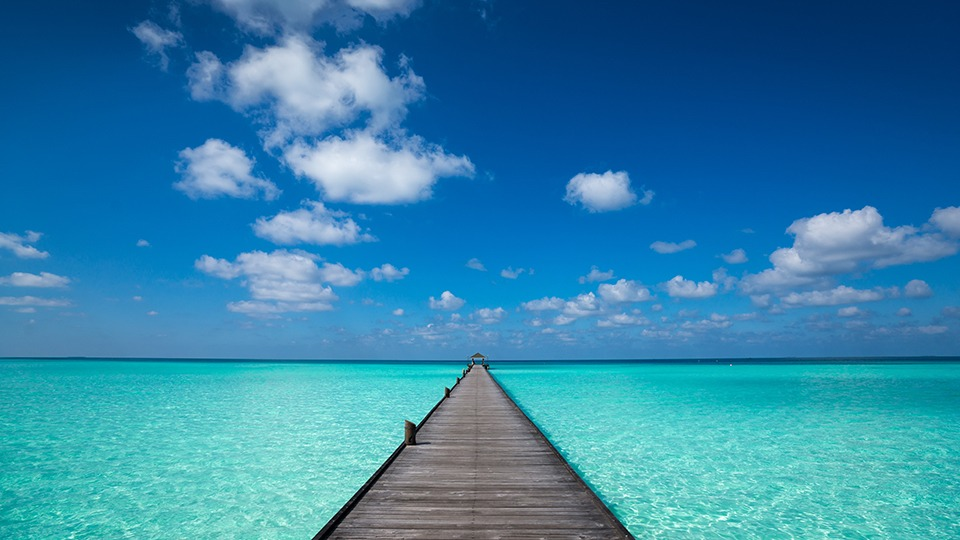
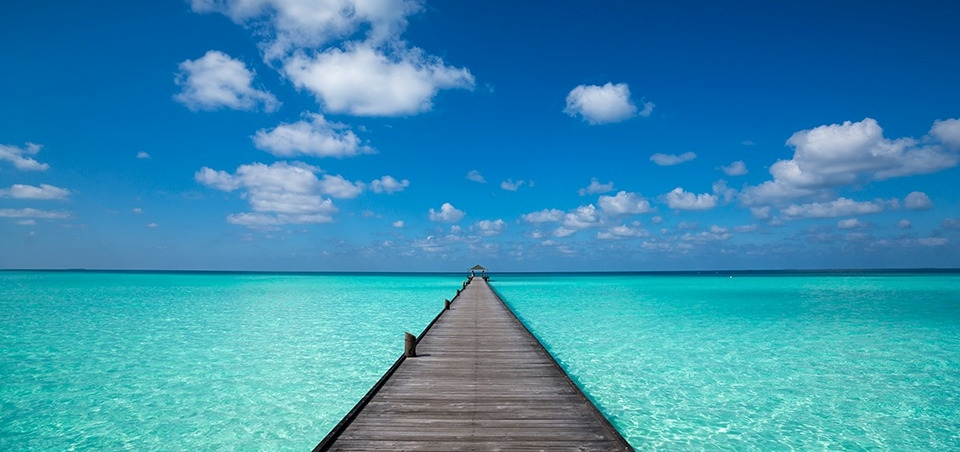
styling updates

diff --git a/static/tripal_styling.css b/static/tripal_styling.css
@@ -8,7 +8,6 @@ body{
 	font-family: fonttry;
 }
 
-
 .nav {
     grid-area: Nav;
     display: right; 
@@ -16,6 +15,7 @@ body{
     justify-content: space-around; 
     width: 100%;
 }
+
 
 .nav-list {
     list-style-type: none;
@@ -65,6 +65,7 @@ footer{
     margin-left: 75%;
     border-color: aliceblue;
     color: rgb(1, 1, 112);
+	cursor: pointer;
 }
 
 .start_your_journey :hover{
@@ -91,16 +92,15 @@ footer{
 
 #signUpBody {
     background: url("../static/homePagepic.jpg") no-repeat ;
-    background-size: 100% 500px;
+    background-size: 100% 100%;
     background-position-y: 75px;
-    backdrop-filter: blur(10px);
+	backdrop-filter: blur(5px);
 	display: flex;
 	justify-content: center;
 	align-items: center;
 	flex-direction: column;
     font-family: fonttry;
-	height: 100vh;
-	margin: 0 0 50px;
+	padding-bottom: 100px;
 }
 
 h1 {
@@ -187,8 +187,10 @@ button.ghost {
 	width: 768px;
 	max-width: 100%;
 	min-height: 480px;
-    padding: 10%;
+    padding: 15%;
+	margin-top: 7%;
 }
+
 
 .form-container {
 	position: absolute;
@@ -201,6 +203,9 @@ button.ghost {
 	left: 0;
 	width: 50%;
 	z-index: 2;
+	text-align: center;
+	padding: 10%;
+	padding-top: 20%;
 }
 
 .container.right-panel-active .sign-in-container {
@@ -343,7 +348,35 @@ button.ghost {
 	padding-top: 0%;
 }
 
+.Header_aboutUs {
+	color:rgb(100, 90, 90); font-size: 40px;
+	text-align:center;
+	padding-top: 5%;
+	
+}
 
+.GeneralText{
+	color:rgb(100, 90, 90); font-size: 23px;
+	text-align:center; 
+	padding: 10%;
+	padding-top: 3%;
+
+}
+
+#AboutUS_body {
+	background: url(../static/background_aboutUs.jpeg) no-repeat;
+	background-size: 100% 100%;
+	background-position-y: 70px;
+
+}
+
+#about_container{
+	background-color: rgba(255, 255, 255, 0.5);
+	box-shadow: 0 4px 8px 0 rgba(0, 0, 0, 0.2), 0 6px 20px 0 rgba(0, 0, 0, 0.19);
+	border-radius: 5%;
+	margin: 15%;
+	margin-top: 5%;
+}
 
 
 

diff --git a/templates/TripalAboutUs.html b/templates/TripalAboutUs.html
@@ -1,0 +1,37 @@
+<!DOCTYPE html>
+<html lang="en">
+<head>
+    <meta charset="UTF-8">
+    <meta http-equiv="X-UA-Compatible" content="IE=edge">
+    <meta name="viewport" content="width=device-width, initial-scale=1.0">
+    <link rel="stylesheet" href="../static/tripal_styling.css">
+    <title>TriPal - About Us</title>
+</head>
+<body id="AboutUS_body">
+    <nav class="nav">
+        <ul class="nav-list">
+            <li class="list-item">
+                <a href="HomePage.html">Home</a>
+            </li>
+            <li class="list-item">
+                <a href="TripalAboutUs.html">About Us</a>
+            </li>
+            <li class="list-item">
+                <a href="TripalContactUs.html">Contact Us</a>
+            </li>
+        </ul>
+    </nav>
+
+    <div id="about_container">
+    <h1 class="Header_aboutUs">About Us</h1>
+
+    <p class="GeneralText">Want to travel, but couldn’t find the right partner? <br></br> 
+        Whether you’re looking for one partner or four, Tripal has got your back. <br></br>
+        We developed an innovative algorithm that helps you find travel partners based on your unique preferences. 
+        Our platform uses personal data you provide and creates potential matches between you and your future travel mates.<br>
+        So far, Tripal has created thousands of successful matches that turned into long lasting relationships.<br>
+        We welcome you to join us and find the best partner for your dream journey with Tripal. </p>
+
+    </div>
+</body>
+</html>

diff --git a/templates/SignUp.html b/templates/SignUp.html
@@ -6,10 +6,10 @@
     <meta name="viewport" content="width=device-width, initial-scale=1.0">
     <title>Sign In</title>
     <link rel="stylesheet" href="../static/tripal_styling.css">
-    <script defer src="../static/sing-upJS.js"></script>
+    <script defer src="../static/tripal_js.js"></script>
 </head>
 <body id="signUpBody">
-    <nav class="nav">
+    <nav class="nav" id="nav_signUp">
         <ul class="nav-list">
             <li class="list-item">
                 <a href="HomePage.html">Home</a>
@@ -31,7 +31,7 @@
                 <input type="tel" placeholder="Phone Number" class="input_signUp" required>
                 <input type="email" placeholder="Email" class="input_signUp" required/>
                 <input type="password" placeholder="Password" class="input_signUp" required/>
-                <button>Sign Up</button>
+                <button id="signUp_button"><a href="createProfile.html"> Sign Up</a></button>
             </form>
         </div>
         <div class="form-container sign-in-container">

diff --git a/templates/TripalContactUs.html b/templates/TripalContactUs.html
@@ -4,7 +4,8 @@
     <meta charset="UTF-8">
     <meta http-equiv="X-UA-Compatible" content="IE=edge">
     <meta name="viewport" content="width=device-width, initial-scale=1.0">
-    <title>Document</title>
+    <title>TriPal- Contact Us</title>
+    
 </head>
 <body id="ContactPage">
     <h1 id="Header">Contact Us</h1>
@@ -61,7 +62,6 @@
             color:rgb(100, 90, 90); font-size: 30px;
             text-align:center;
             float: center;
-            font-family:'Segoe UI', Tahoma, Geneva, Verdana, sans-serif;
             
         }
         </style>

diff --git a/templates/HomePage.html b/templates/HomePage.html
@@ -14,10 +14,10 @@
                 <a href="HomePage.html">Home</a>
             </li>
             <li class="list-item">
-                <a href="About Us">About Us</a>
+                <a href="TripalAboutUs.html">About Us</a>
             </li>
             <li class="list-item">
-                <a href="contactUs">Contact Us</a>
+                <a href="TripalContactUs.html">Contact Us</a>
             </li>
         </ul>
     </nav>

diff --git a/templates/createProfile.html b/templates/createProfile.html
@@ -4,7 +4,7 @@
     <meta charset="UTF-8">
     <meta http-equiv="X-UA-Compatible" content="IE=edge">
     <meta name="viewport" content="width=device-width, initial-scale=1.0">
-    <title>Document</title>
+    <title>TriPal- Create Profile</title>
     <link rel="stylesheet" href="../static/tripal_styling.css"> 
 </head>
 

diff --git a/static/tripal_js.js b/static/tripal_js.js
@@ -9,3 +9,4 @@ signUpButton.addEventListener('click', () => {
 signInButton.addEventListener('click', () => {
 	container.classList.remove("right-panel-active");
 });
+
